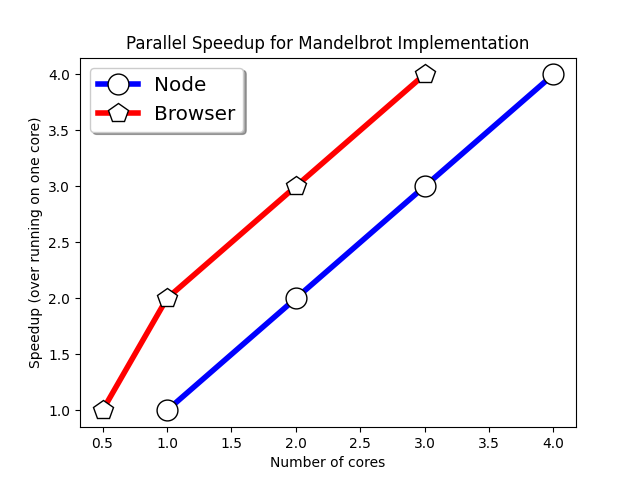
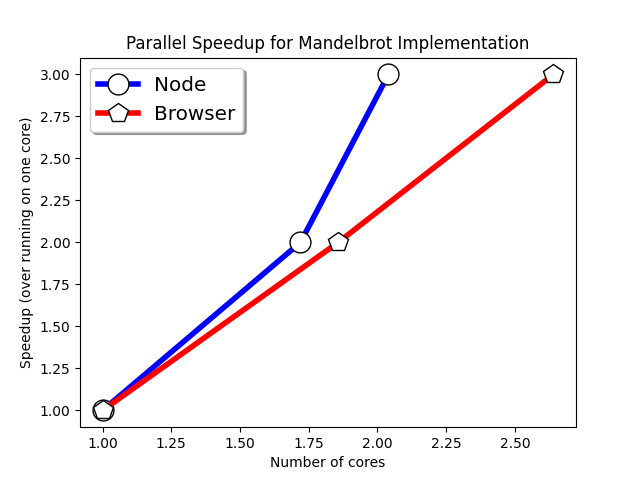
Fixed diagrams

diff --git a/benchmarks/visualisations/speedupgraph.py b/benchmarks/visualisations/speedupgraph.py
@@ -4,51 +4,123 @@ import numpy as np
 import os
 import re
 
-def make_graph(node_results_folder, browser_results_folder, title, output_name):
-    keys = [1,2,3,4,8]
-    node_data = {}
-    browser_data = {}
-    for processes in keys:
-        node_data[processes] = []
-        browser_data[processes] = []
-        
-        #Scrape node data
-        with open(f'{node_results_folder}{processes}worker.txt') as f:
-            for line in f.readlines():
-                node_data[processes].append(int(line.strip()))
-        
-        #Scrape browser data      
-        with open(f'{browser_results_folder}/{processes}worker.log') as f:
-            for line in f.readlines():
-                sanitized_line = line.strip()
-                if '.js ' in sanitized_line:
-                    reading = sanitized_line[sanitized_line.find('"')+1:sanitized_line.find('"', sanitized_line.find('"')+1)]
-                    browser_data[processes].append(int(reading))
+keys = [1,2,3,4]
+mandelbrot_data = {}
+piprecision_data = {}
+trapezoid_data = {}
+for processes in keys:
+    mandelbrot_data[processes] = []
+    piprecision_data[processes] = []
+    trapezoid_data[processes] = []
+    
+    #Scrape node data
+    with open(f'../node/parallel/mandelbrot/results/mandelbrot_{processes}worker.txt') as f:
+        for line in f.readlines():
+            mandelbrot_data[processes].append(int(line.strip()))
+    with open(f'../node/parallel/results/piprecision_{processes}worker.txt') as f:
+        for line in f.readlines():
+            piprecision_data[processes].append(int(line.strip()))
+    with open(f'../node/parallel/results/trapezoid_{processes}worker.txt') as f:
+        for line in f.readlines():
+            trapezoid_data[processes].append(int(line.strip()))
+            
+            
+mandelbrot_speedup = [np.average(mandelbrot_data[1])/np.average(mandelbrot_data[key]) for key in keys]
+piprecision_speedup = [np.average(piprecision_data[1])/np.average(piprecision_data[key]) for key in keys]
+trapezoid_speedup = [np.average(trapezoid_data[1])/np.average(trapezoid_data[key]) for key in keys]
 
-    keys = keys[:len(keys)-1]
-    node_speedup = [np.average(node_data[1])/np.average(node_data[key]) for key in keys]
-    browser_speedup = [np.average(browser_data[1])/np.average(browser_data[key]) for key in keys]
-    
-    fig, ax = plt.subplots()
-    
-    ax.plot(node_speedup, keys, '-o', color='blue',
-         markersize=15, linewidth=4,
-         markerfacecolor='white',
-         markeredgecolor='black',
-         markeredgewidth=1, label='Node');
-    
-    ax.plot(browser_speedup, keys, '-p', color='red',
+fig, ax = plt.subplots()
+
+ax.plot(keys, mandelbrot_speedup, '-o', color='blue',
         markersize=15, linewidth=4,
         markerfacecolor='white',
         markeredgecolor='black',
-        markeredgewidth=1, label='Browser');
+        markeredgewidth=1, label='Mandelbrot');
+
+ax.plot(keys, piprecision_speedup, '-p', color='red',
+    markersize=15, linewidth=4,
+    markerfacecolor='white',
+    markeredgecolor='black',
+    markeredgewidth=1, label='Pi Precision');
+
+ax.plot(keys, trapezoid_speedup, '-8', color='green',
+    markersize=15, linewidth=4,
+    markerfacecolor='white',
+    markeredgecolor='black',
+    markeredgewidth=1, label='Trapezoid');
+
+legend = ax.legend(loc='upper left', shadow=True, fontsize='x-large')
+
+plt.locator_params(axis="x", integer=True, tight=True)
+plt.title('Node Speedup for Parallel Benchmarks')
+plt.xlabel('Number of cores')
+plt.ylabel('Speedup (over running on one core)')
+plt.savefig('node_speedup.png')
+
+def scrape_log_line(line, search):
+    sanitized_line = line.strip()
+    if '.js ' in sanitized_line:
+        #Get benchmark name
+        benchmark = sanitized_line[sanitized_line.find(search)+len(search):]
+        benchmark = benchmark[benchmark.find('/')+1:benchmark.find('.')].upper()
+        reading = sanitized_line[sanitized_line.find('"')+1:sanitized_line.find('"', sanitized_line.find('"')+1)]
+        return int(reading)
+            
+
+mandelbrot_data = {}
+piprecision_data = {}
+trapezoid_data = {}
+
+for processes in keys:
+    mandelbrot_data[processes] = []
+    piprecision_data[processes] = []
+    trapezoid_data[processes] = []
     
-    legend = ax.legend(loc='upper left', shadow=True, fontsize='x-large')
-    
-    plt.title(title)
-    plt.xlabel('Number of cores')
-    plt.ylabel('Speedup (over running on one core)')
-    plt.savefig(output_name)
-    
-make_graph('../node/parallel/mandelbrot/results/mandelbrot_', '../browser/parallel/mandelbrot/results', 'Parallel Speedup for Mandelbrot Implementation', 'mandelbrot.png')
-make_graph('../node/parallel/results/piprecision_', '../browser/parallel/results', 'Parallel Speedup for Pi Precision Implementation', 'piprecision.png')
+    #Scrape node data
+    with open(f'../browser/parallel/mandelbrot/results/mandelbrot_{processes}worker.log') as f:
+        for line in f.readlines():
+            reading = scrape_log_line(line, 'source: http://localhost:3000/parallel/mandelbrot/')
+            if reading is not None:
+                mandelbrot_data[processes].append(reading)
+    with open(f'../browser/parallel/results/piprecision_{processes}worker.log') as f:
+        for line in f.readlines():            
+            reading = scrape_log_line(line, 'source: http://localhost:3000/parallel/')
+            if reading is not None:
+                piprecision_data[processes].append(reading)
+    with open(f'../browser/parallel/results/trapezoid_{processes}worker.log') as f:
+        for line in f.readlines():            
+            reading = scrape_log_line(line, 'source: http://localhost:3000/parallel/')
+            if reading is not None:
+                trapezoid_data[processes].append(reading)
+            
+mandelbrot_speedup = [np.average(mandelbrot_data[1])/np.average(mandelbrot_data[key]) for key in keys]
+piprecision_speedup = [np.average(piprecision_data[1])/np.average(piprecision_data[key]) for key in keys]
+trapezoid_speedup = [np.average(trapezoid_data[1])/np.average(trapezoid_data[key]) for key in keys]
+
+fig, ax = plt.subplots()
+
+ax.plot(keys, mandelbrot_speedup, '-o', color='blue',
+        markersize=15, linewidth=4,
+        markerfacecolor='white',
+        markeredgecolor='black',
+        markeredgewidth=1, label='Mandelbrot');
+
+ax.plot(keys, piprecision_speedup, '-p', color='red',
+    markersize=15, linewidth=4,
+    markerfacecolor='white',
+    markeredgecolor='black',
+    markeredgewidth=1, label='Pi Precision');
+
+ax.plot(keys, trapezoid_speedup, '-8', color='green',
+    markersize=15, linewidth=4,
+    markerfacecolor='white',
+    markeredgecolor='black',
+    markeredgewidth=1, label='Trapezoid');
+
+legend = ax.legend(loc='upper left', shadow=True, fontsize='x-large')
+
+plt.locator_params(axis="x", integer=True, tight=True)
+plt.title('Browser Speedup for Parallel Benchmarks')
+plt.xlabel('Number of cores')
+plt.ylabel('Speedup (over running on one core)')
+plt.savefig('browser_speedup.png')

diff --git a/benchmarks/visualisations/linkcomparision.py b/benchmarks/visualisations/linkcomparision.py
@@ -29,26 +29,26 @@ errors = []
 data2 = [0,1,2,3]
 
 #Note, these ping pong models were run for 1000000 messages
-data.append(get_node_average('./results/pingpongcluster.txt')[0])
-data.append(get_node_average('./results/pingpongnodews.txt')[0])
-data.append(get_browser_average('./results/pingpongwebworker.txt')[0])
-data.append(get_browser_average('./results/pingpongbrowserws.txt')[0])
+data.append(get_node_average('../node/parallel/results/pingpongnetcluster.txt')[0])
+data.append(get_node_average('../node/parallel/results/pingpongnetws.txt')[0])
+data.append(get_browser_average('../browser/parallel/results/pingpongnetwebworker.log')[0])
+data.append(get_browser_average('../browser/parallel/results/pingpongnetws.log')[0])
 
-errors.append(get_node_average('./results/pingpongcluster.txt')[1])
-errors.append(get_node_average('./results/pingpongnodews.txt')[1])
-errors.append(get_browser_average('./results/pingpongwebworker.txt')[1])
-errors.append(get_browser_average('./results/pingpongbrowserws.txt')[1])
+errors.append(get_node_average('../node/parallel/results/pingpongnetcluster.txt')[1])
+errors.append(get_node_average('../node/parallel/results/pingpongnetws.txt')[1])
+errors.append(get_browser_average('../browser/parallel/results/pingpongnetwebworker.log')[1])
+errors.append(get_browser_average('../browser/parallel/results/pingpongnetws.log')[1])
 
 #Note, these fjcreate models were run for 20000 spawns
-data.append(get_node_average('./results/fjcreatecluster.txt')[0])
-data.append(get_node_average('./results/fjcreatenodews.txt')[0])
-data.append(get_browser_average('./results/fjcreatewebworker.txt')[0])
-data.append(get_browser_average('./results/fjcreatebrowserws.txt')[0])
+data.append(get_node_average('../node/parallel/results/fjcreatenetcluster.txt')[0])
+data.append(get_node_average('../node/parallel/results/fjcreatenetws.txt')[0])
+data.append(get_browser_average('../browser/parallel/results/fjcreatenetwebworker.log')[0])
+data.append(get_browser_average('../browser/parallel/results/fjcreatenetws.log')[0])
 
-errors.append(get_node_average('./results/fjcreatecluster.txt')[1])
-errors.append(get_node_average('./results/fjcreatenodews.txt')[1])
-errors.append(get_browser_average('./results/fjcreatewebworker.txt')[1])
-errors.append(get_browser_average('./results/fjcreatebrowserws.txt')[1])
+errors.append(get_node_average('../node/parallel/results/fjcreatenetcluster.txt')[1])
+errors.append(get_node_average('../node/parallel/results/fjcreatenetws.txt')[1])
+errors.append(get_browser_average('../browser/parallel/results/fjcreatenetwebworker.log')[1])
+errors.append(get_browser_average('../browser/parallel/results/fjcreatenetws.log')[1])
 
 Ygirls = [10,20]
 Zboys = [20,30]

diff --git a/benchmarks/visualisations/singlethread.py b/benchmarks/visualisations/singlethread.py
@@ -29,10 +29,9 @@ with open('../browser/singlethread/singlethread.log') as f:
         sanitized_line = line.strip()
         if '.js ' in sanitized_line:
             #Get benchmark name
-            search = 'source: http://'
+            search = 'source: http://localhost:3000/singlethread/'
             benchmark = sanitized_line[sanitized_line.find(search)+len(search):]
             benchmark = benchmark[benchmark.find('/')+1:benchmark.find('.')].upper()
-            
             reading = sanitized_line[sanitized_line.find('"')+1:sanitized_line.find('"', sanitized_line.find('"')+1)]
             browser_data[benchmark].append(int(reading))
             
